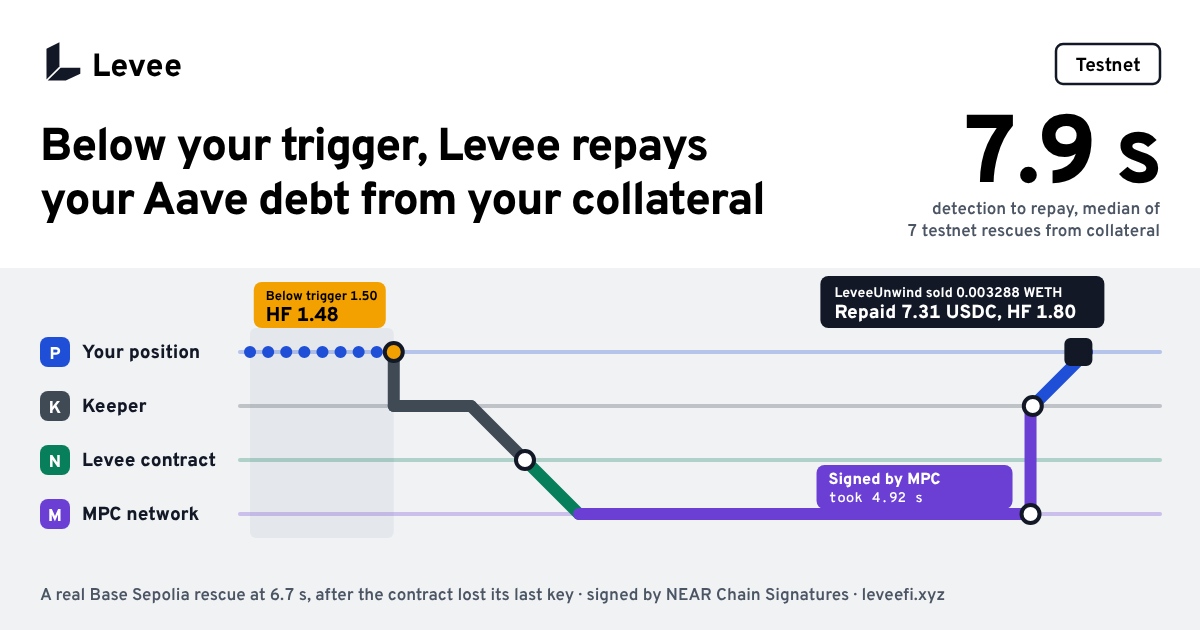
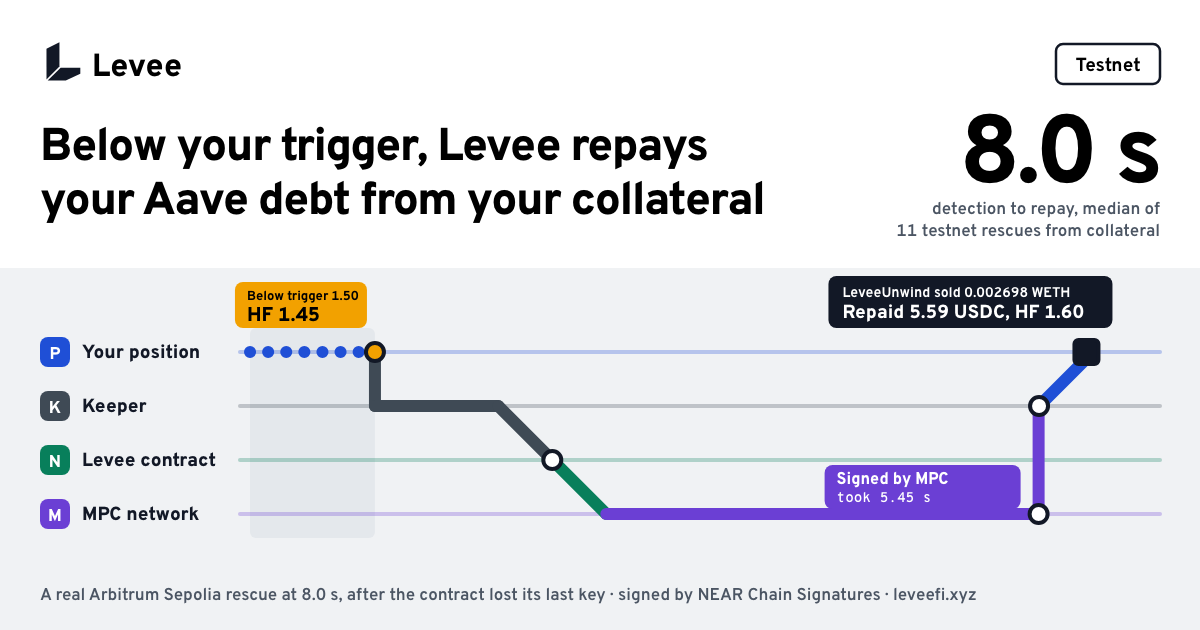
Tell the two-chain rescues in the README and on the site, and replay them
README: the first screen counts 24 rescues on two chains. Live evidence leads with one contract
rescuing on Base Sepolia and Arbitrum Sepolia, before and after its key was deleted. The
contracts tables list the new contract, the helper on both chains and Arbitrum Sepolia's Aave
and Uniswap contracts. The hop table now pools both chains. Arbitrum leaves "Not built yet".

Site: the walked-through rescue is now the keyless Arbitrum Sepolia one. The keyless claims come
first in the ledger for that reason. The site lists the new contracts and drops its Base-only
wording, and the link preview is rendered again. Tests now allow two v0.2 contracts, each with
its helper, and check every key deletion against the claim that names it.

make replay walks both keyless two-chain rescues.

diff --git a/web/lib/contracts.ts b/web/lib/contracts.ts
@@ -8,25 +8,34 @@
 
 const NEARBLOCKS = "https://testnet.nearblocks.io";
 const BASESCAN = "https://sepolia.basescan.org";
+const ARBISCAN = "https://sepolia.arbiscan.io";
 
 export const nearAccountUrl = (account: string) => `${NEARBLOCKS}/address/${account}`;
 export const nearTxUrl = (hash: string) => `${NEARBLOCKS}/txns/${hash}`;
 export const baseAddressUrl = (address: string) => `${BASESCAN}/address/${address}`;
+export const arbitrumAddressUrl = (address: string) => `${ARBISCAN}/address/${address}`;
 
-/** The Levee contract that repays from collateral, or from a reserve. */
+/** The same v0.2 code, deployed again with Base Sepolia and Arbitrum Sepolia in its chain list. */
+export const LEVEE_TWO_CHAINS = "levee-v2-multi-1503.testnet";
+/** The Levee contract that repays from collateral, or from a reserve. Base Sepolia only. */
 export const LEVEE_V2 = "levee-core-v2-1503.testnet";
 /** The first Levee contract, reserve mode only. Its runs stay on the record. */
 export const LEVEE_V1 = "levee-core-1503.testnet";
 /** The helper that sells collateral to repay. No owner, no upgrade. */
 export const UNWIND = "0x308a7b2872F6006522280026a750fCD1c5Bd63D2";
 export const UNWIND_SOURCE = `https://repo.sourcify.dev/84532/${UNWIND}`;
+/** The helper with the Aave v3.0 rounding fix, at the same address on Base Sepolia and Arbitrum Sepolia. */
+export const UNWIND_TWO_CHAINS = "0xD9a54F7743B5BbA3fdC77c96b932f50ce67177e8";
 
 /** Which version each Levee contract is. */
-export const VERSIONS: Record<string, string> = { [LEVEE_V2]: "v0.2", [LEVEE_V1]: "v0.1" };
+export const VERSIONS: Record<string, string> = { [LEVEE_TWO_CHAINS]: "v0.2, two chains", [LEVEE_V2]: "v0.2", [LEVEE_V1]: "v0.1" };
+
+/** The helper each contract's collateral runs called. */
+export const HELPERS: Record<string, string> = { [LEVEE_TWO_CHAINS]: UNWIND_TWO_CHAINS, [LEVEE_V2]: UNWIND };
 
 export interface ContractRow {
   name: string;
-  network: "NEAR testnet" | "Base Sepolia";
+  network: "NEAR testnet" | "Base Sepolia" | "Arbitrum Sepolia";
   address: string;
   href: string;
   /** Where its source is, when Levee wrote it. */
@@ -35,15 +44,20 @@ export interface ContractRow {
 }
 
 export const OWN: ContractRow[] = [
-  { name: "Levee v0.2, repays from collateral or from a reserve", network: "NEAR testnet", address: LEVEE_V2, href: nearAccountUrl(LEVEE_V2), source: "contracts/levee" },
-  { name: "LeveeUnwind, sells collateral to repay. No owner, no upgrade", network: "Base Sepolia", address: UNWIND, href: baseAddressUrl(UNWIND), source: "evm/src/LeveeUnwind.sol, verified on Sourcify", sourceHref: UNWIND_SOURCE },
+  { name: "Levee v0.2 on two chains, the same code with Base Sepolia and Arbitrum Sepolia", network: "NEAR testnet", address: LEVEE_TWO_CHAINS, href: nearAccountUrl(LEVEE_TWO_CHAINS), source: "contracts/levee" },
+  { name: "LeveeUnwind with the Aave v3.0 fix. No owner, no upgrade", network: "Base Sepolia", address: UNWIND_TWO_CHAINS, href: baseAddressUrl(UNWIND_TWO_CHAINS), source: "evm/src/LeveeUnwind.sol, verified on Sourcify", sourceHref: `https://repo.sourcify.dev/84532/${UNWIND_TWO_CHAINS}` },
+  { name: "LeveeUnwind with the Aave v3.0 fix. No owner, no upgrade", network: "Arbitrum Sepolia", address: UNWIND_TWO_CHAINS, href: arbitrumAddressUrl(UNWIND_TWO_CHAINS), source: "evm/src/LeveeUnwind.sol, verified on Sourcify", sourceHref: `https://repo.sourcify.dev/421614/${UNWIND_TWO_CHAINS}` },
+  { name: "Levee v0.2, Base Sepolia only, repays from collateral or from a reserve", network: "NEAR testnet", address: LEVEE_V2, href: nearAccountUrl(LEVEE_V2), source: "contracts/levee" },
+  { name: "LeveeUnwind, before the Aave v3.0 fix. No owner, no upgrade", network: "Base Sepolia", address: UNWIND, href: baseAddressUrl(UNWIND), source: "evm/src/LeveeUnwind.sol, verified on Sourcify", sourceHref: UNWIND_SOURCE },
   { name: "Levee v0.1, reserve mode only", network: "NEAR testnet", address: LEVEE_V1, href: nearAccountUrl(LEVEE_V1), source: "contracts/levee, before collateral mode was added" },
 ];
 
 export const KEEPER = "levee-keeper-1503.testnet";
 
 export const ACCOUNTS: ContractRow[] = [
-  { name: "Keeper. One key limited to rescue_from_collateral on v0.2, one limited to rescue on v0.1", network: "NEAR testnet", address: KEEPER, href: nearAccountUrl(KEEPER) },
+  { name: "Keeper. One key limited to rescue_from_collateral on each v0.2 contract, one limited to rescue on v0.1", network: "NEAR testnet", address: KEEPER, href: nearAccountUrl(KEEPER) },
+  { name: "Rescuer for two-chain position 1, derived from the contract by Chain Signatures", network: "Arbitrum Sepolia", address: "0x008418a72481867d027E2b9cA179AC089de69403", href: arbitrumAddressUrl("0x008418a72481867d027E2b9cA179AC089de69403") },
+  { name: "Rescuer for two-chain position 2, derived from the contract by Chain Signatures", network: "Base Sepolia", address: "0x6d65fC5Cb4536abae4cD6526856bB10526e80295", href: baseAddressUrl("0x6d65fC5Cb4536abae4cD6526856bB10526e80295") },
   { name: "Rescuer for v0.2 position 1, derived from the contract by Chain Signatures", network: "Base Sepolia", address: "0x95ad19E5382ebEfF2C190ed1711515263efDc462", href: baseAddressUrl("0x95ad19E5382ebEfF2C190ed1711515263efDc462") },
   { name: "Rescuer for v0.1 position 1", network: "Base Sepolia", address: "0xEA3ce7f3AeC39CE95D0fA32F867BA65EFF3b8971", href: baseAddressUrl("0xEA3ce7f3AeC39CE95D0fA32F867BA65EFF3b8971") },
 ];
@@ -62,11 +76,24 @@ export const THIRD_PARTY: ContractRow[] = [
     address: "0x92266210FacF124f190fbad79AA230dfB85926Ce",
     href: baseAddressUrl("0x92266210FacF124f190fbad79AA230dfB85926Ce"),
   },
+  { name: "Aave v3 Pool, revision 3", network: "Arbitrum Sepolia", address: "0xBfC91D59fdAA134A4ED45f7B584cAf96D7792Eff", href: arbitrumAddressUrl("0xBfC91D59fdAA134A4ED45f7B584cAf96D7792Eff") },
+  { name: "Aave v3 PoolAddressesProvider", network: "Arbitrum Sepolia", address: "0xB25a5D144626a0D488e52AE717A051a2E9997076", href: arbitrumAddressUrl("0xB25a5D144626a0D488e52AE717A051a2E9997076") },
+  { name: "USDC, Circle's testnet token", network: "Arbitrum Sepolia", address: "0x75faf114eafb1BDbe2F0316DF893fd58CE46AA4d", href: arbitrumAddressUrl("0x75faf114eafb1BDbe2F0316DF893fd58CE46AA4d") },
+  { name: "WETH, Aave's test wrapper", network: "Arbitrum Sepolia", address: "0x1dF462e2712496373A347f8ad10802a5E95f053D", href: arbitrumAddressUrl("0x1dF462e2712496373A347f8ad10802a5E95f053D") },
+  { name: "Uniswap v3 Factory", network: "Arbitrum Sepolia", address: "0x248AB79Bbb9bC29bB72f7Cd42F17e054Fc40188e", href: arbitrumAddressUrl("0x248AB79Bbb9bC29bB72f7Cd42F17e054Fc40188e") },
+  { name: "Uniswap v3 QuoterV2", network: "Arbitrum Sepolia", address: "0x2779a0CC1c3e0E44D2542EC3e79e3864Ae93Ef0B", href: arbitrumAddressUrl("0x2779a0CC1c3e0E44D2542EC3e79e3864Ae93Ef0B") },
+  {
+    name: "Uniswap v3 WETH/USDC 0.30% pool. The team added its liquidity at Aave's oracle price, so its prices are no market measure",
+    network: "Arbitrum Sepolia",
+    address: "0x99A927D8127b7215FC11Ce1F1009e77ff8B1d1b0",
+    href: arbitrumAddressUrl("0x99A927D8127b7215FC11Ce1F1009e77ff8B1d1b0"),
+  },
 ];
 
 /** Collateral the testnet runs sold, by address in lower case, with its decimals. */
 export const TOKENS: Record<string, { symbol: string; decimals: number }> = {
   "0x4200000000000000000000000000000000000006": { symbol: "WETH", decimals: 18 },
+  "0x1df462e2712496373a347f8ad10802a5e95f053d": { symbol: "WETH", decimals: 18 },
 };
 
 export interface KeyDeletion {
@@ -79,11 +106,15 @@ export interface KeyDeletion {
   block: number;
 }
 
-/** The last full-access key on each contract account, deleted. Neither account has a key left. */
+/** The last full-access key on each contract account, deleted. No account has a key left. */
 export const KEY_DELETIONS: KeyDeletion[] = [
+  { account: LEVEE_TWO_CHAINS, version: "v0.2, two chains", key: "ed25519:F5ZXz26BWNVyBK8bDD97thjdESAYv58FarwTzgoieZML", tx: "6SAwnLxi8QTR4UKqCSfpAASkzZzENDrjXudakVJyti62", href: nearTxUrl("6SAwnLxi8QTR4UKqCSfpAASkzZzENDrjXudakVJyti62"), block: 277_265_005 },
   { account: LEVEE_V1, version: "v0.1", key: "ed25519:AgX6NqakXdaJD4PzFABsTLxnKmEEisozd617LNVi8Ead", tx: "3u8yYEBB9eVJbRGjE27xiHru1aAA4W7Mh4C2rrsZ86fu", href: nearTxUrl("3u8yYEBB9eVJbRGjE27xiHru1aAA4W7Mh4C2rrsZ86fu"), block: 276_764_277 },
   { account: LEVEE_V2, version: "v0.2", key: "ed25519:GRz6zN114TpPrRB5Go6zANhjC2csyW7kuLwUsWJV2ZdE", tx: "C5aHVAahMMa3BjqddSDSf7AK8VCkuFiuqizGj7vbzJJA", href: nearTxUrl("C5aHVAahMMa3BjqddSDSf7AK8VCkuFiuqizGj7vbzJJA"), block: 276_764_289 },
 ];
 
-/** The NEAR block of the rescue call made after both deletions, as the claims ledger states it. */
-export const KEYLESS_RESCUE_NEAR_BLOCK = 276_764_677;
+/**
+ * The NEAR block of the rescue the site walks through: the Arbitrum Sepolia rescue made after the
+ * two-chain contract lost its last key, as the first keyless claim in the ledger states it.
+ */
+export const KEYLESS_RESCUE_NEAR_BLOCK = 277_265_219;

diff --git a/web/components/stops.tsx b/web/components/stops.tsx
@@ -34,8 +34,8 @@ function collateralStops(): Stop[] {
     {
       lane: "P",
       title: "You set the terms",
-      short: "Once, on Base: authorize LeveeUnwind with your trigger, target, price bound, collateral and pool, and approve a capped amount of its aToken.",
-      long: "Once, from your own wallet on Base: authorize(rescuer, maxSlippageBps, triggerHf, targetHf, collateral, poolFee) on LeveeUnwind, and a capped approval of the collateral’s aToken to it. There is no Safe, module or credit delegation. revoke() or a zero allowance stops it at once, without NEAR.",
+      short: "Once, on the lending chain: authorize LeveeUnwind with your trigger, target, price bound, collateral and pool, and approve a capped amount of its aToken.",
+      long: "Once, from your own wallet on the lending chain: authorize(rescuer, maxSlippageBps, triggerHf, targetHf, collateral, poolFee) on LeveeUnwind, and a capped approval of the collateral’s aToken to it. There is no Safe, module or credit delegation. revoke() or a zero allowance stops it at once, without NEAR.",
       where: "Base, once",
     },
     {
@@ -71,8 +71,8 @@ function collateralStops(): Stop[] {
     {
       lane: "P",
       title: "The helper checks and sells",
-      short: "On Base, LeveeUnwind checks your trigger, collateral, pool and bound, repays the USDC and sells just enough collateral.",
-      long: "The keeper checks the signer and broadcasts. Anyone could: the signature is public. On Base, LeveeUnwind requires health factor below your trigger, and the collateral and pool you authorized. The pool sends the USDC first; the helper repays your debt, takes the aTokens the pool is owed and withdraws them to the pool. The sale must be within your bound against Aave’s oracle and within max_sold, and health factor must rise without passing far beyond your target.",
+      short: "On the lending chain, LeveeUnwind checks your trigger, collateral, pool and bound, repays the USDC and sells just enough collateral.",
+      long: "The keeper checks the signer and broadcasts. Anyone could: the signature is public. On the lending chain, LeveeUnwind requires health factor below your trigger, and the collateral and pool you authorized. The pool sends the USDC first; the helper repays your debt, takes the aTokens the pool is owed and withdraws them to the pool. The sale must be within your bound against Aave’s oracle and within max_sold, and health factor must rise without passing far beyond your target.",
       where: "Base or Arbitrum",
       hop: { id: "evm", label: "to inclusion" },
       helper: true,
@@ -215,7 +215,7 @@ export function Terminus() {
       <p className="lab">One terminus</p>
       <Call name="LeveeUnwind.unwind" args={["borrower", "collateral", "amount", "poolFee", "maxSold"]} />
       <div className="terminus-body">
-        <p>The only call a rescue from collateral can make. The keeper sends a position id, an amount, max_sold and fees, and the borrower, collateral and pool are fixed at registration. On Base, before anything moves, the helper checks:</p>
+        <p>The only call a rescue from collateral can make. The keeper sends a position id, an amount, max_sold and fees, and the borrower, collateral and pool are fixed at registration. On the lending chain, before anything moves, the helper checks:</p>
         <ul>
           <li>health factor is below your trigger</li>
           <li>the collateral and pool are the ones you authorized</li>

diff --git a/web/lib/proof-model.test.ts b/web/lib/proof-model.test.ts
@@ -1,7 +1,7 @@
 import assert from "node:assert/strict";
 import { readFileSync, readdirSync } from "node:fs";
 import { test } from "node:test";
-import { LEVEE_V1, LEVEE_V2, UNWIND } from "./contracts.ts";
+import { HELPERS, LEVEE_TWO_CHAINS, LEVEE_V1, LEVEE_V2, UNWIND } from "./contracts.ts";
 import { evidenceDir, parseRun, readRuns, type Claim } from "./evidence.ts";
 import { seconds } from "./format.ts";
 import { buildProof, dayList, hop, medianRun, monthName, overall, plainReason, rangeName, tokenAmount, usdcAmount } from "./proof-model.ts";
@@ -176,7 +176,7 @@ test("the repository's runs give the figures the site states", () => {
   assert.equal(proof.replay.id, proof.keyless.run);
   assert.equal(proof.replay.chosen, "keyless");
   assert.equal(proof.replay.mode, "collateral");
-  assert.equal(proof.replay.contract, LEVEE_V2);
+  assert.equal(proof.replay.contract, LEVEE_TWO_CHAINS);
   assert.ok(proof.replay.sale?.sold);
   assert.equal(landed.find((entry) => entry.replayed)?.id, proof.replay.id);
   // Every collateral rescue sold something and says how far from the oracle it sold.
@@ -198,7 +198,7 @@ test("the hop table states the README's figures", () => {
   const rows: Array<[string, "near" | "mpc" | "evm" | "overall"]> = [
     ["Detection to NEAR inclusion", "near"],
     ["NEAR inclusion to MPC signature", "mpc"],
-    ["Broadcast to Base inclusion", "evm"],
+    ["Broadcast to lending-chain inclusion", "evm"],
     ["Total from detection", "overall"],
   ];
   for (const [label, id] of rows) {
@@ -233,8 +233,13 @@ test("every run record names one of the site's contracts, by mode", () => {
   const dir = evidenceDir();
   for (const name of readdirSync(dir).filter((file) => file.endsWith(".json"))) {
     const record = JSON.parse(readFileSync(`${dir}/${name}`, "utf8")) as { near_contract?: string; mode?: string; trace?: { collateral?: { helper?: string } } };
-    assert.equal(record.near_contract, record.mode === "collateral" ? LEVEE_V2 : LEVEE_V1, name);
-    if (record.mode === "collateral") assert.equal(record.trace?.collateral?.helper, UNWIND, name);
+    if (record.mode === "collateral") {
+      assert.ok(record.near_contract === LEVEE_V2 || record.near_contract === LEVEE_TWO_CHAINS, name);
+      assert.equal(record.trace?.collateral?.helper, HELPERS[record.near_contract], name);
+    } else {
+      assert.equal(record.near_contract, LEVEE_V1, name);
+    }
   }
-  assert.deepEqual(buildProof({ runs: readRuns(dir), ...none }).contracts.sort(), [LEVEE_V1, LEVEE_V2].sort());
+  assert.equal(HELPERS[LEVEE_V2], UNWIND);
+  assert.deepEqual(buildProof({ runs: readRuns(dir), ...none }).contracts.sort(), [LEVEE_TWO_CHAINS, LEVEE_V1, LEVEE_V2].sort());
 });

diff --git a/web/app/how/page.tsx b/web/app/how/page.tsx
@@ -85,7 +85,7 @@ function phases(): Phase[] {
   const reserve = PROOF.modes.reserve.counts;
   const tally = (landed: number, aborted: number) => `${landed} rescues${aborted ? ` and ${aborted} ${aborted === 1 ? "run" : "runs"} the keeper stopped` : ""}`;
   return [
-    { phase: "Repay from collateral", state: "Built, live on testnet", scope: `The main mode. LeveeUnwind on Base Sepolia and Levee v0.2 on NEAR testnet: ${tally(collateral.success, collateral.aborted)}.` },
+    { phase: "Repay from collateral", state: "Built, live on testnet", scope: `The main mode. LeveeUnwind on Base Sepolia and Arbitrum Sepolia, and Levee v0.2 on NEAR testnet: ${tally(collateral.success, collateral.aborted)}.` },
     { phase: "Repay from a reserve", state: "Built, live on testnet", scope: `The second mode, from USDC held at the rescuer. Levee v0.1 on NEAR testnet: ${tally(reserve.success, reserve.aborted)}.` },
     { phase: "Arbitrum", state: "Built, no live runs", scope: "The contracts support it, and fork tests cover both modes there." },
     { phase: "Reserve layer", state: "Not built", scope: "An off-venue reserve in a NEAR Intents Agent API wallet with pinned destinations. It needs partner access. The dry quote above is the route it would use." },
@@ -205,7 +205,7 @@ export default function HowPage() {
           <h2 className="big" id="who-h">
             Who can do what
           </h2>
-          <p>Each actor has one job. The helper on Base and the contract on NEAR enforce the limits, so a stolen keeper key stays inside them.</p>
+          <p>Each actor has one job. The helper on the lending chain and the contract on NEAR enforce the limits, so a stolen keeper key stays inside them.</p>
         </div>
         <Boards />
         <WorstCase />
@@ -219,7 +219,7 @@ export default function HowPage() {
           <h2 className="big" id="different-h">
             What is different
           </h2>
-          <p>Levee is one of several ways to protect a position in place. DeFi Saver protects Aave v3 positions held in an EOA on Base and Arbitrum, through a Safe operator and an aToken approval.</p>
+          <p>Levee is one of several ways to protect a position in place. DeFi Saver already automates Aave v3 for positions held in an ordinary wallet on Ethereum, Arbitrum, Optimism and Base, with its own bots and upgradeable contracts. The README compares the two, with sources.</p>
         </div>
         <ul className="prose-list">
           <li>The helper, LeveeUnwind, has no owner and cannot be upgraded. The borrower gives it a capped aToken allowance and nothing else: no Safe, no module, no credit delegation.</li>

diff --git a/web/lib/contracts.test.ts b/web/lib/contracts.test.ts
@@ -1,7 +1,7 @@
 import assert from "node:assert/strict";
 import { readFileSync } from "node:fs";
 import { test } from "node:test";
-import { ACCOUNTS, KEY_DELETIONS, KEYLESS_RESCUE_NEAR_BLOCK, OWN, THIRD_PARTY, UNWIND } from "./contracts.ts";
+import { ACCOUNTS, KEY_DELETIONS, KEYLESS_RESCUE_NEAR_BLOCK, OWN, THIRD_PARTY, UNWIND, UNWIND_TWO_CHAINS } from "./contracts.ts";
 import { readClaims } from "./evidence.ts";
 import { integer } from "./format.ts";
 
@@ -12,17 +12,24 @@ test("every contract and account the site lists is in the README, with the same 
     assert.ok(readme.includes(`[${row.address}](${row.href})`), row.address);
   }
   assert.ok(readme.includes(`repo.sourcify.dev/84532/${UNWIND}`));
+  assert.ok(readme.includes(`repo.sourcify.dev/84532/${UNWIND_TWO_CHAINS}`));
+  assert.ok(readme.includes(`repo.sourcify.dev/421614/${UNWIND_TWO_CHAINS}`));
 });
 
 test("the key deletions are the ones the claims ledger and the README state", () => {
-  const claim = readClaims().find((entry) => entry.noAccessKeys.length > 0);
-  assert.ok(claim);
-  assert.deepEqual([...claim.noAccessKeys].sort(), KEY_DELETIONS.map((deletion) => deletion.account).sort());
+  const claims = readClaims().filter((entry) => entry.noAccessKeys.length > 0);
+  assert.ok(claims.length > 0);
+  // Every account a claim says has no keys has its deletion here, and nothing else does.
+  assert.deepEqual([...new Set(claims.flatMap((claim) => claim.noAccessKeys))].sort(), KEY_DELETIONS.map((deletion) => deletion.account).sort());
   for (const deletion of KEY_DELETIONS) {
-    assert.ok(claim.claim.includes(deletion.tx), deletion.tx);
+    const claim = claims.find((entry) => entry.noAccessKeys.includes(deletion.account) && entry.claim.includes(deletion.tx));
+    assert.ok(claim, deletion.tx);
     assert.ok(claim.claim.includes(integer(deletion.block)), String(deletion.block));
     assert.ok(readme.includes(`[tx](${deletion.href})`), deletion.href);
   }
-  assert.ok(claim.claim.includes(integer(KEYLESS_RESCUE_NEAR_BLOCK)));
-  assert.ok(KEY_DELETIONS.every((deletion) => deletion.block < KEYLESS_RESCUE_NEAR_BLOCK));
+  // The first keyless claim is the rescue the site walks through, after its accounts' deletions.
+  const [first] = claims;
+  assert.ok(first?.claim.includes(integer(KEYLESS_RESCUE_NEAR_BLOCK)));
+  const its = KEY_DELETIONS.filter((deletion) => first?.noAccessKeys.includes(deletion.account));
+  assert.ok(its.length > 0 && its.every((deletion) => deletion.block < KEYLESS_RESCUE_NEAR_BLOCK));
 });

diff --git a/web/app/page.tsx b/web/app/page.tsx
@@ -46,7 +46,7 @@ export default async function Home() {
           </p>
           <h1>Below your trigger, Levee repays your Aave debt from your own collateral</h1>
           <p className="lede">
-            When your health factor falls below the trigger you set, <b>a NEAR contract with no keys signs one call</b> that sells just enough of your collateral to repay USDC debt back to your target. <b>The position stays in your wallet.</b> On Base, an ownerless helper checks the trigger and the price against Aave’s oracle before anything moves.
+            When your health factor falls below the trigger you set, <b>a NEAR contract with no keys signs one call</b> that sells just enough of your collateral to repay USDC debt back to your target. <b>The position stays in your wallet.</b> On Base and Arbitrum, an ownerless helper checks the trigger and the price against Aave’s oracle before anything moves.
           </p>
           {proofLine && (
             <p className="hero-proof">
@@ -78,7 +78,7 @@ export default async function Home() {
           <h2 className="big" id="rules-h">
             Who can do what
           </h2>
-          <p>Each actor has one job. The helper on Base and the contract on NEAR enforce the limits, so a stolen keeper key stays inside them.</p>
+          <p>Each actor has one job. The helper on the lending chain and the contract on NEAR enforce the limits, so a stolen keeper key stays inside them.</p>
         </div>
         <Boards />
         <WorstCase />

diff --git a/web/components/time-bar.tsx b/web/components/time-bar.tsx
@@ -12,9 +12,9 @@ export function TimeBar({ replay, median }: { replay: Replay; median: { p50Ms: n
     { lane: "N", label: "Detection to the rescue call on NEAR", ms: near },
     { lane: "M", label: "MPC signature", ms: signed - near },
     { lane: "K", label: "Signer checked and sent", ms: sent - signed },
-    { lane: "P", label: replay.mode === "collateral" ? "Unwind included on Base" : "Repay included", ms: included - sent },
+    { lane: "P", label: replay.mode === "collateral" ? `Unwind included on ${replay.chain}` : "Repay included", ms: included - sent },
   ];
-  const which = replay.chosen === "keyless" ? "The run the home page replays, made after the contracts lost their last keys," : "The run the home page replays";
+  const which = replay.chosen === "keyless" ? "The run the home page replays, made after the contract lost its last key," : "The run the home page replays";
   const versus = median.p50Ms === null ? "" : ` The median of the ${median.samples} rescues from collateral is ${seconds(median.p50Ms)}.`;
   return (
     <aside className="time-card" aria-labelledby="time-card-h">

diff --git a/web/lib/links.ts b/web/lib/links.ts
@@ -1,13 +1,14 @@
 /** Every outside link the site prints, in one place. Contract data is in contracts.ts. */
-import { LEVEE_V2, UNWIND, baseAddressUrl, nearAccountUrl } from "./contracts.ts";
+import { LEVEE_TWO_CHAINS, UNWIND_TWO_CHAINS, arbitrumAddressUrl, baseAddressUrl, nearAccountUrl } from "./contracts.ts";
 
-/** The Levee contract on NEAR testnet that repays from collateral. */
-export const CONTRACT_ID = LEVEE_V2;
+/** The Levee contract on NEAR testnet that rescues on Base Sepolia and Arbitrum Sepolia. */
+export const CONTRACT_ID = LEVEE_TWO_CHAINS;
 
 export const CONTRACT_URL = nearAccountUrl(CONTRACT_ID);
 
-/** LeveeUnwind, the helper on Base Sepolia. */
-export const UNWIND_URL = baseAddressUrl(UNWIND);
+/** LeveeUnwind, the helper, at the same address on both chains. */
+export const UNWIND_URL = baseAddressUrl(UNWIND_TWO_CHAINS);
+export const UNWIND_ARBITRUM_URL = arbitrumAddressUrl(UNWIND_TWO_CHAINS);
 
 /** The source repository, linked from the footer and the /proof cards. */
 export const GITHUB_URL: string = "https://github.com/qvkare/levee";

diff --git a/web/lib/og.ts b/web/lib/og.ts
@@ -6,5 +6,5 @@ export function ogAlt(proof: Proof): string {
   const p50 = ((overall.p50Ms ?? 0) / 1000).toFixed(1);
   const chain = proof.replay?.chain ?? "testnet";
   const after = proof.replay?.chosen === "keyless" ? ", made after the NEAR contract lost its last key," : "";
-  return `Levee. Below your trigger, Levee repays your Aave debt from your own collateral. A real ${chain} rescue${after} drawn on four lines: your position, the keeper, the Levee contract on NEAR and the MPC network, ending at LeveeUnwind on Base. ${p50} s from detection to repay, the median of ${overall.samples} testnet rescues from collateral.\n`;
+  return `Levee. Below your trigger, Levee repays your Aave debt from your own collateral. A real ${chain} rescue${after} drawn on four lines: your position, the keeper, the Levee contract on NEAR and the MPC network, ending at LeveeUnwind on the lending chain. ${p50} s from detection to repay, the median of ${overall.samples} testnet rescues from collateral.\n`;
 }

diff --git a/web/components/timetable.tsx b/web/components/timetable.tsx
@@ -122,7 +122,7 @@ export function OutLinks({ next }: { next: { href: string; title: string; body: 
         </span>
         <span>
           <b>{CONTRACT_ID}</b>
-          <small>The v0.2 contract on NearBlocks, with every rescue call</small>
+          <small>The two-chain v0.2 contract on NearBlocks, with every rescue call</small>
         </span>
       </a>
       <a className="sign-card sign-card-U" href={UNWIND_URL} rel="noreferrer">
@@ -131,7 +131,7 @@ export function OutLinks({ next }: { next: { href: string; title: string; body: 
         </span>
         <span>
           <b>LeveeUnwind</b>
-          <small>The helper on Basescan Sepolia, with every unwind</small>
+          <small>The helper on Basescan Sepolia, at the same address on Arbiscan Sepolia</small>
         </span>
       </a>
       {GITHUB_URL ? (

diff --git a/web/components/site-footer.tsx b/web/components/site-footer.tsx
@@ -1,5 +1,5 @@
 import Link from "next/link";
-import { CONTRACT_URL, GITHUB_URL, UNWIND_URL } from "@/lib/links.ts";
+import { CONTRACT_URL, GITHUB_URL, UNWIND_ARBITRUM_URL, UNWIND_URL } from "@/lib/links.ts";
 import { Brand } from "./site-header.tsx";
 
 export function SiteFooter() {
@@ -17,6 +17,11 @@ export function SiteFooter() {
           <li>
             <a href={UNWIND_URL} rel="noreferrer">
               LeveeUnwind on Basescan
+            </a>
+          </li>
+          <li>
+            <a href={UNWIND_ARBITRUM_URL} rel="noreferrer">
+              LeveeUnwind on Arbiscan
             </a>
           </li>
           {GITHUB_URL && (

diff --git a/web/components/boards.tsx b/web/components/boards.tsx
@@ -24,7 +24,7 @@ const BOARDS: Board[] = [
   {
     key: "U",
     name: "LeveeUnwind",
-    role: "The helper on Base. No owner",
+    role: "The helper on each lending chain. No owner",
     can: ["Sell your authorized collateral, in your authorized pool, to repay your USDC debt, below your trigger"],
     limit: "Can’t",
     limits: ["Act for anyone else", "Change its terms", "Be upgraded"],
